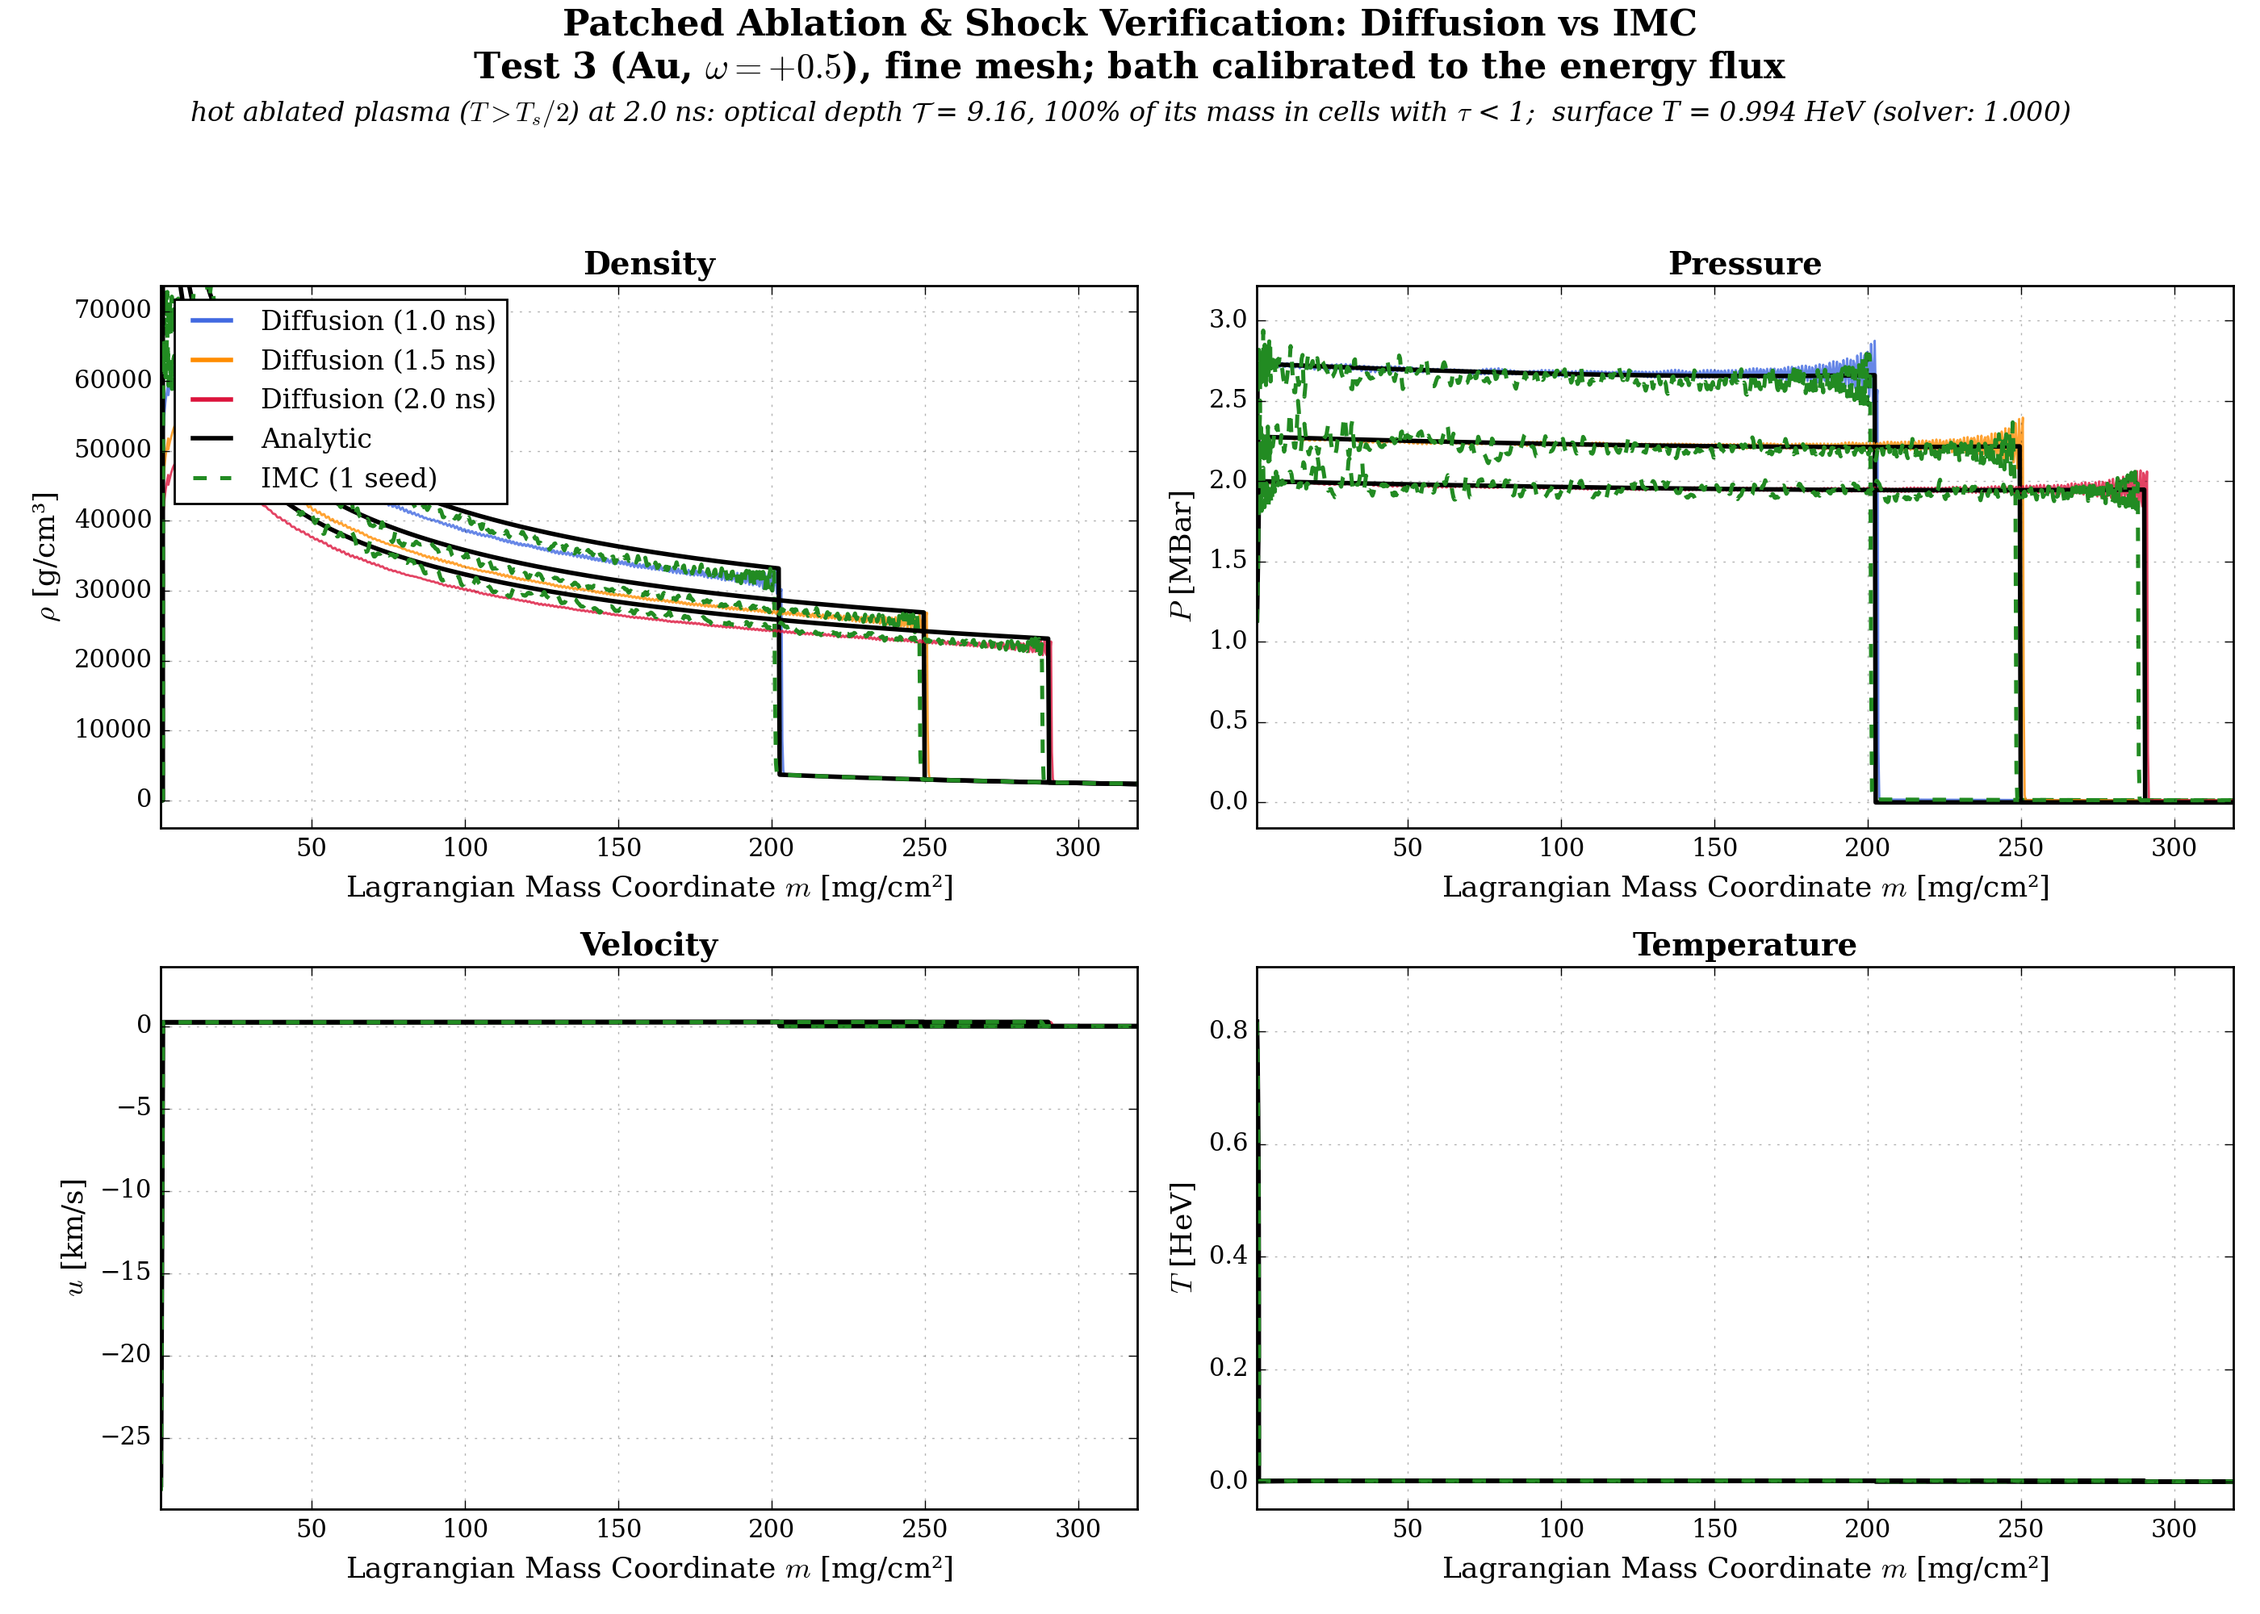
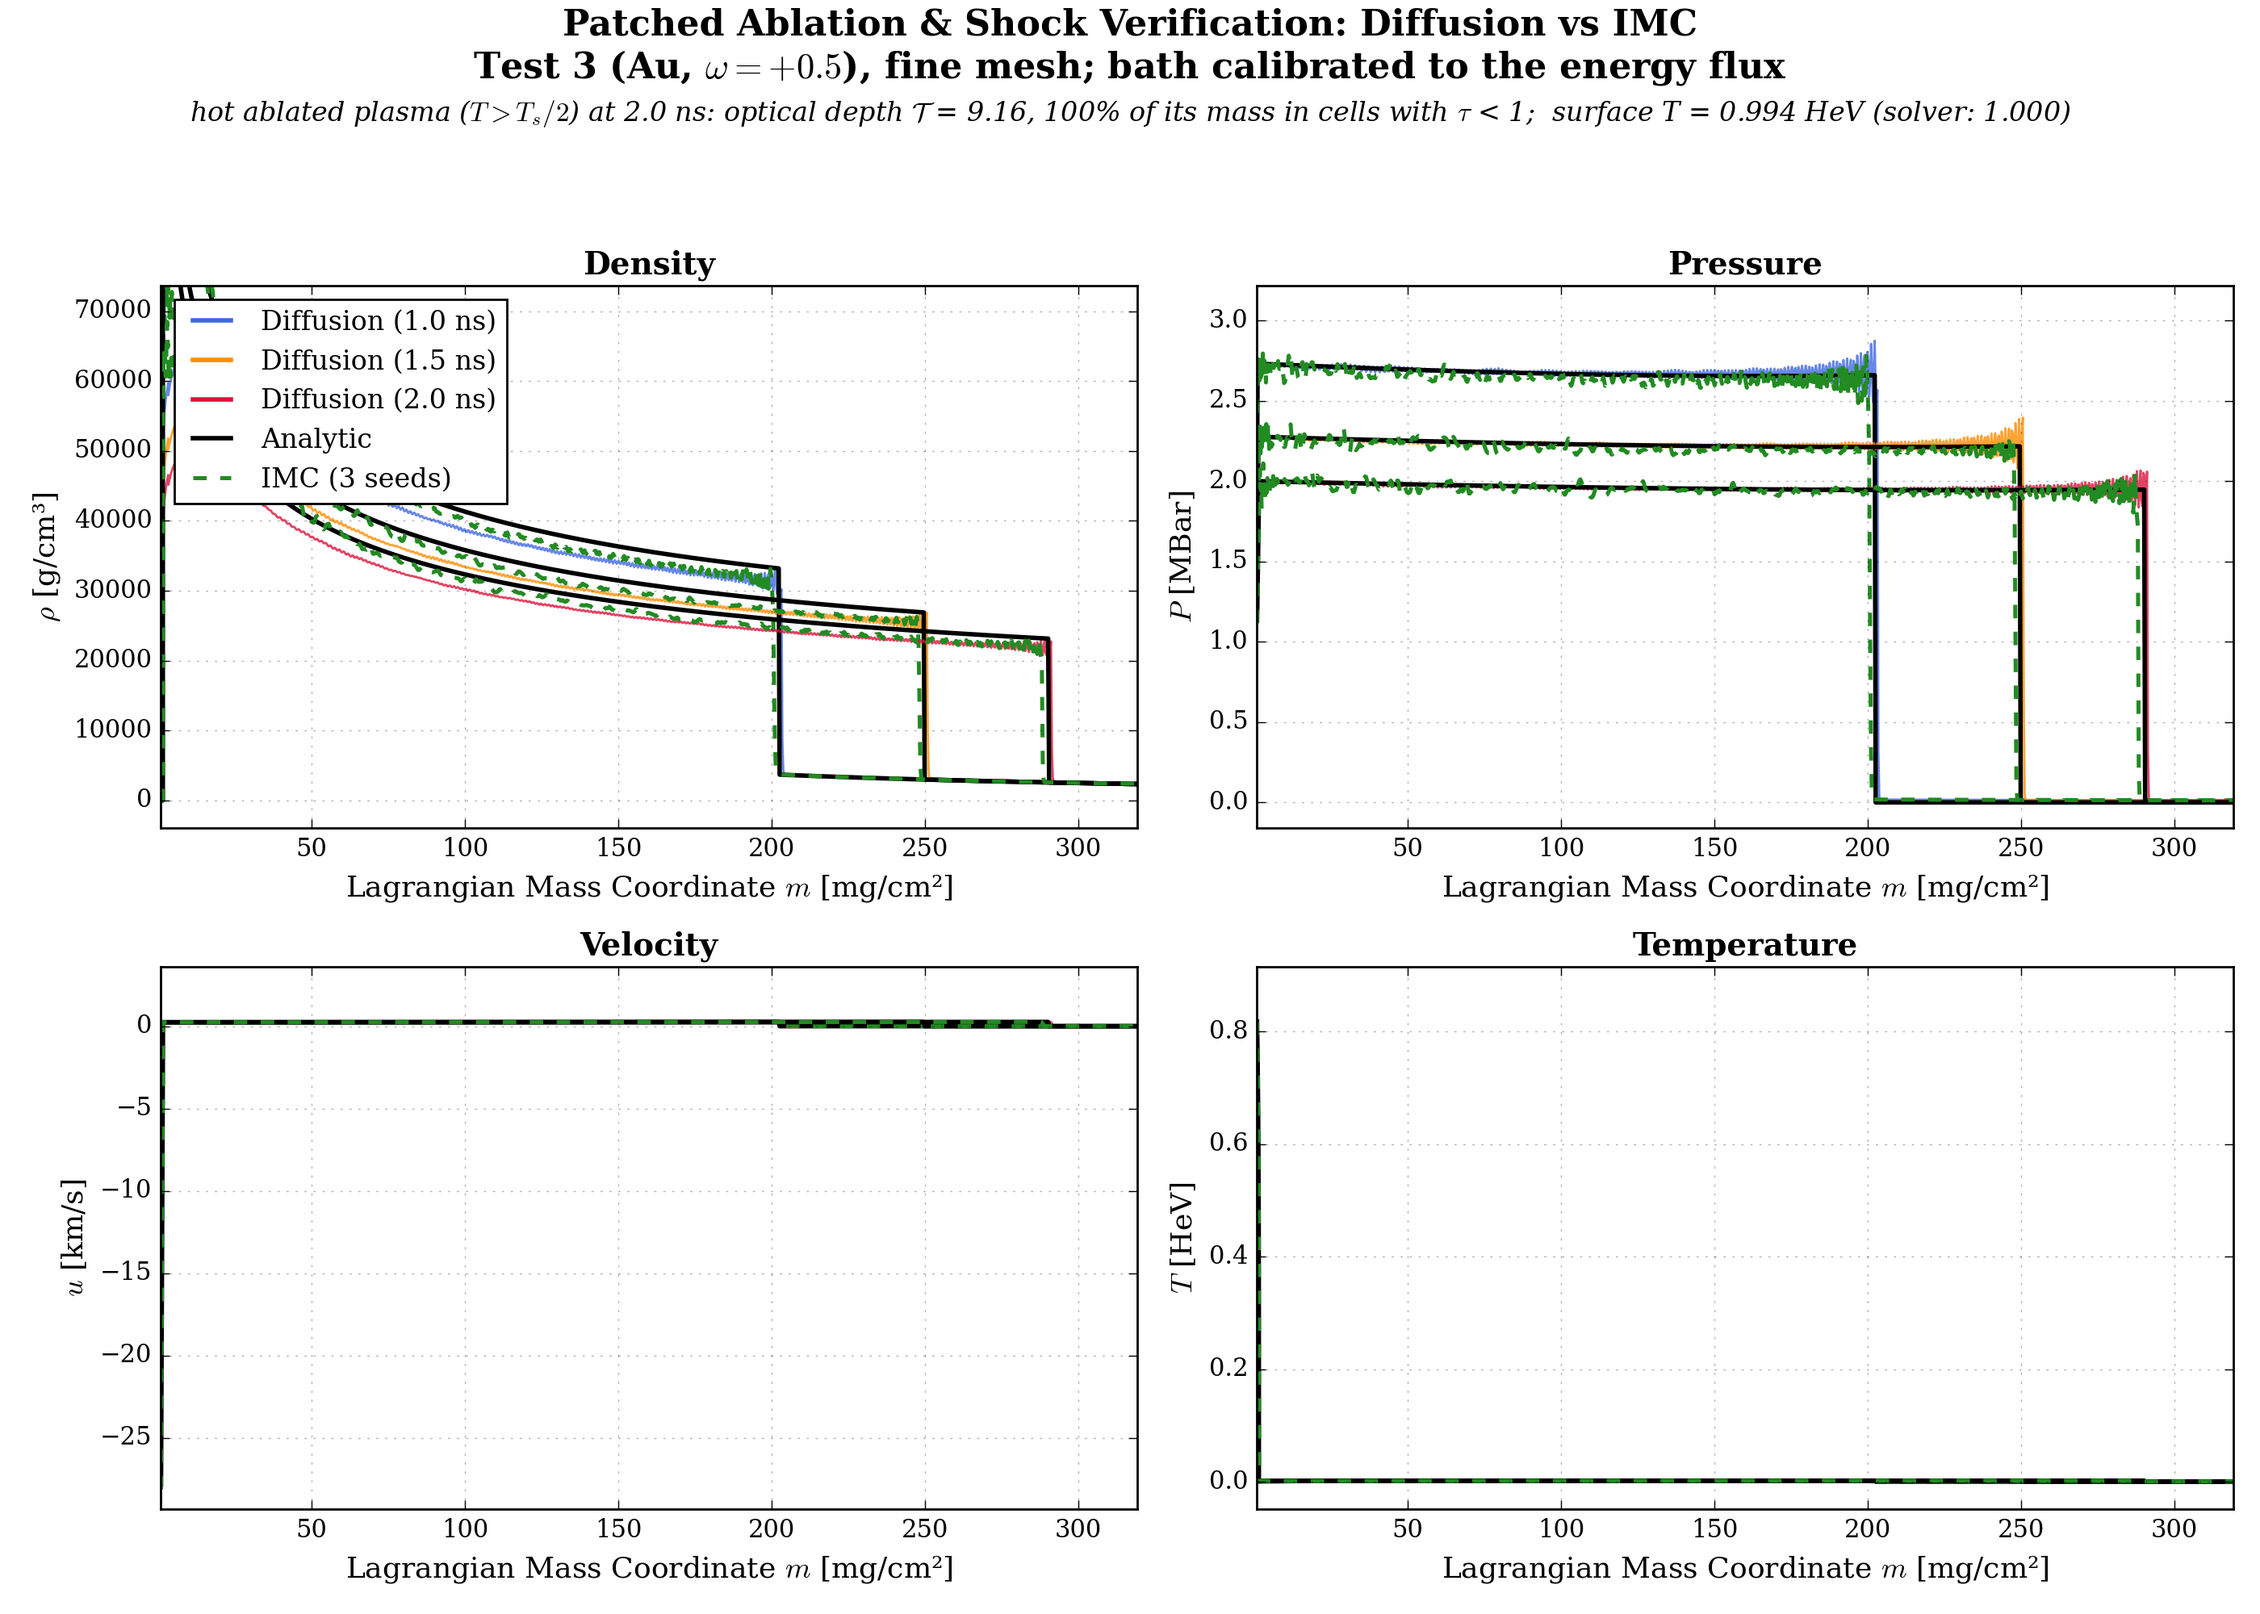
Test 3, fine mesh, flux bath: IMC with 3 seeds (within 0.6 points of diffusion on the fronts)

Changed region(s): [[0.5593, 0.217, 0.9632, 0.341], [0.1554, 0.31, 0.4661, 0.403]]

diff --git a/md/phase_c/bath_calibration.md b/md/phase_c/bath_calibration.md
@@ -71,7 +71,7 @@ Test 2's flux calibration converged after 3 runs (0.19%), Test 3's after 3 runs 
 
 The gold ω sweep, −0.8 to +0.8 (simulated up to +0.6), with both baths and a mesh-convergence check, is in [`omega_sweep/`](omega_sweep/README.md).
 
-IMC follows diffusion under every bath (`phase_c_tests3to6_results.md` §1): within ≤ 2.3% for gold and ≤ 5.3% for Cu and Al, independent of the bath. With the flux-calibrated bath, Test 2 (3 seeds) and Test 3 (fine mesh, 1 seed) follow the same pattern: Test 3's IMC is within 1.0 point of diffusion on the fronts.
+IMC follows diffusion under every bath (`phase_c_tests3to6_results.md` §1): within ≤ 2.3% for gold and ≤ 5.3% for Cu and Al, independent of the bath. With the flux-calibrated bath, Test 2 (3 seeds) and Test 3 (fine mesh, 3 seeds) follow the same pattern: Test 3's IMC is within 0.6 points of diffusion on the heat front, the shock and the front pressure, as with the paper bath.
 
 ## 3. Conclusions
 
